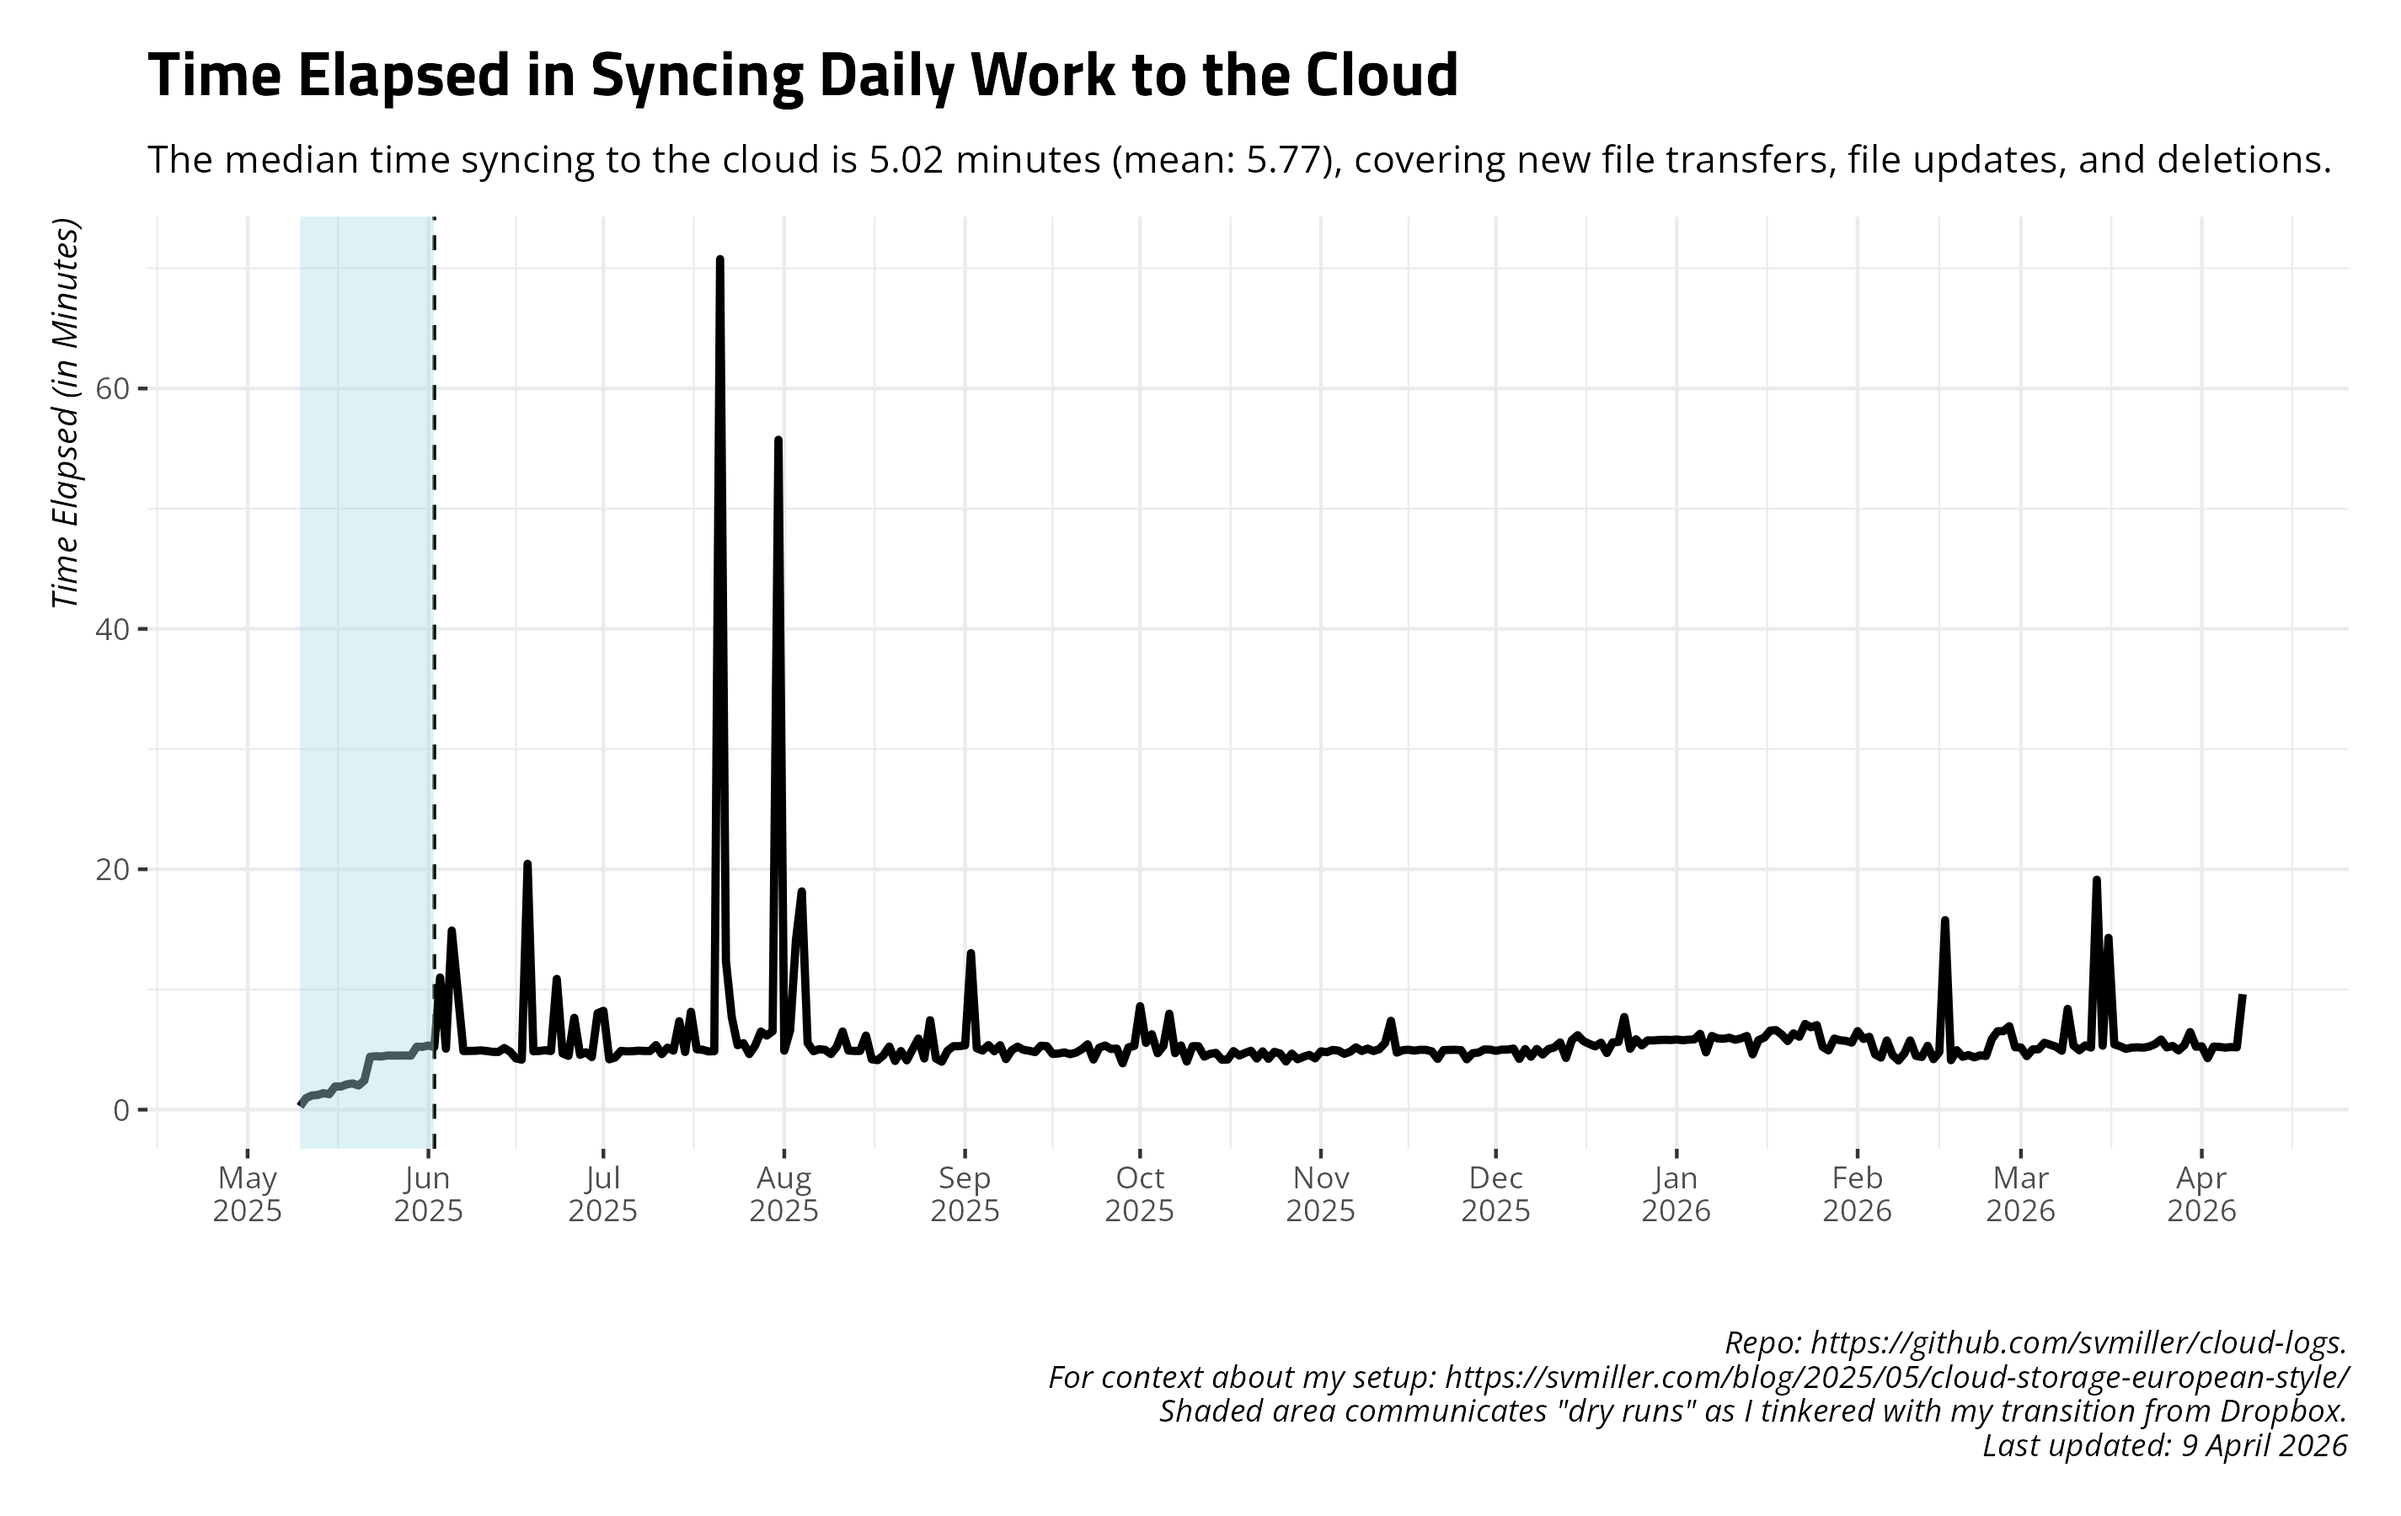
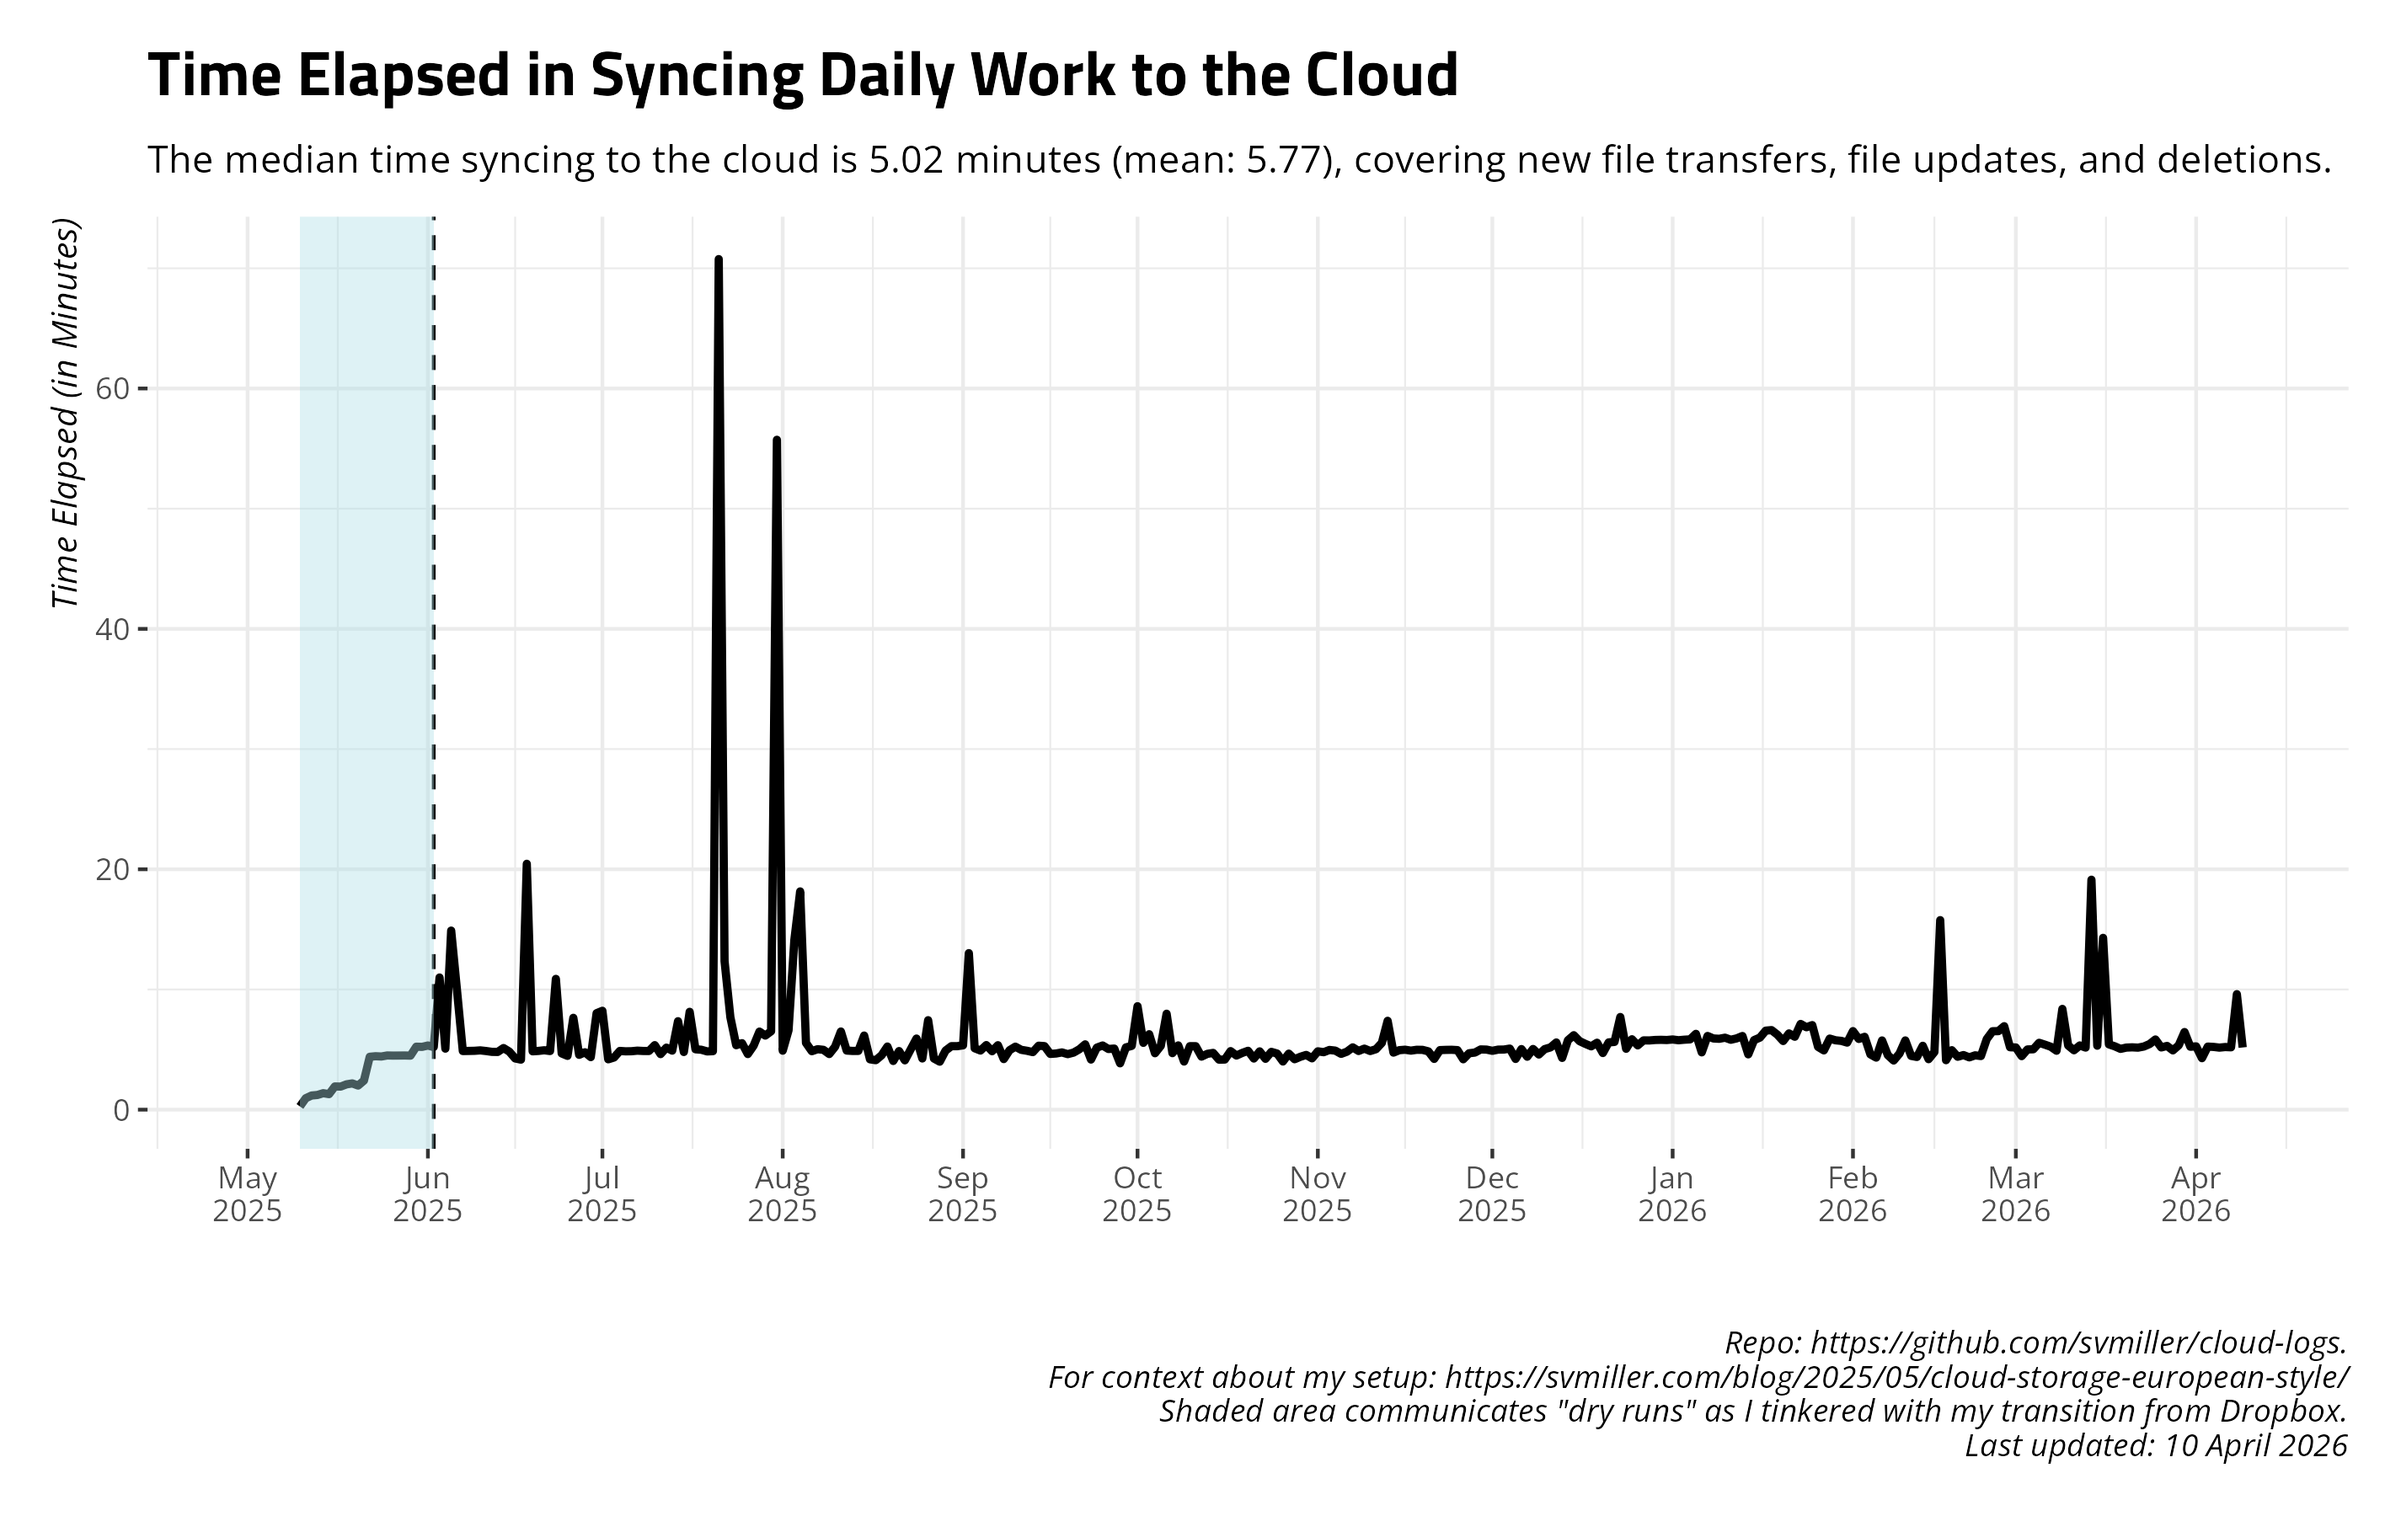
Date: 2026-04-10 09:00:26. Hi mom!

diff --git a/README.md b/README.md
@@ -27,17 +27,17 @@ and uploads to Github.
     #> # A tibble: 14 × 4
     #>    date       ftransfer stransfer   elapsed
     #>    <date>         <dbl> <chr>       <chr>  
-    #>  1 2026-03-26         4 85.605 KiB  5m10.6s
-    #>  2 2026-03-27        23 10.112 MiB  5m18.2s
-    #>  3 2026-03-28        24 134.979 KiB 4m55.9s
-    #>  4 2026-03-29         0 <NA>        5m21.2s
-    #>  5 2026-03-30       872 5.770 GiB   6m27.5s
-    #>  6 2026-03-31         2 21.604 KiB  5m14.1s
-    #>  7 2026-04-01        12 28.383 KiB  5m15.9s
-    #>  8 2026-04-02        23 6.745 MiB   4m16.9s
-    #>  9 2026-04-03         0 <NA>        5m14.8s
-    #> 10 2026-04-04         7 220.335 MiB 5m13.2s
-    #> 11 2026-04-05         0 <NA>        5m9.7s 
-    #> 12 2026-04-06         2 37.269 KiB  5m12.6s
-    #> 13 2026-04-07       287 <NA>        5m11.3s
-    #> 14 2026-04-08         0 <NA>        9m36.6s
+    #>  1 2026-03-27        23 10.112 MiB  5m18.2s
+    #>  2 2026-03-28        24 134.979 KiB 4m55.9s
+    #>  3 2026-03-29         0 <NA>        5m21.2s
+    #>  4 2026-03-30       872 5.770 GiB   6m27.5s
+    #>  5 2026-03-31         2 21.604 KiB  5m14.1s
+    #>  6 2026-04-01        12 28.383 KiB  5m15.9s
+    #>  7 2026-04-02        23 6.745 MiB   4m16.9s
+    #>  8 2026-04-03         0 <NA>        5m14.8s
+    #>  9 2026-04-04         7 220.335 MiB 5m13.2s
+    #> 10 2026-04-05         0 <NA>        5m9.7s 
+    #> 11 2026-04-06         2 37.269 KiB  5m12.6s
+    #> 12 2026-04-07       287 <NA>        5m11.3s
+    #> 13 2026-04-08         0 <NA>        9m36.6s
+    #> 14 2026-04-09         1 882.068 KiB 5m10.4s
